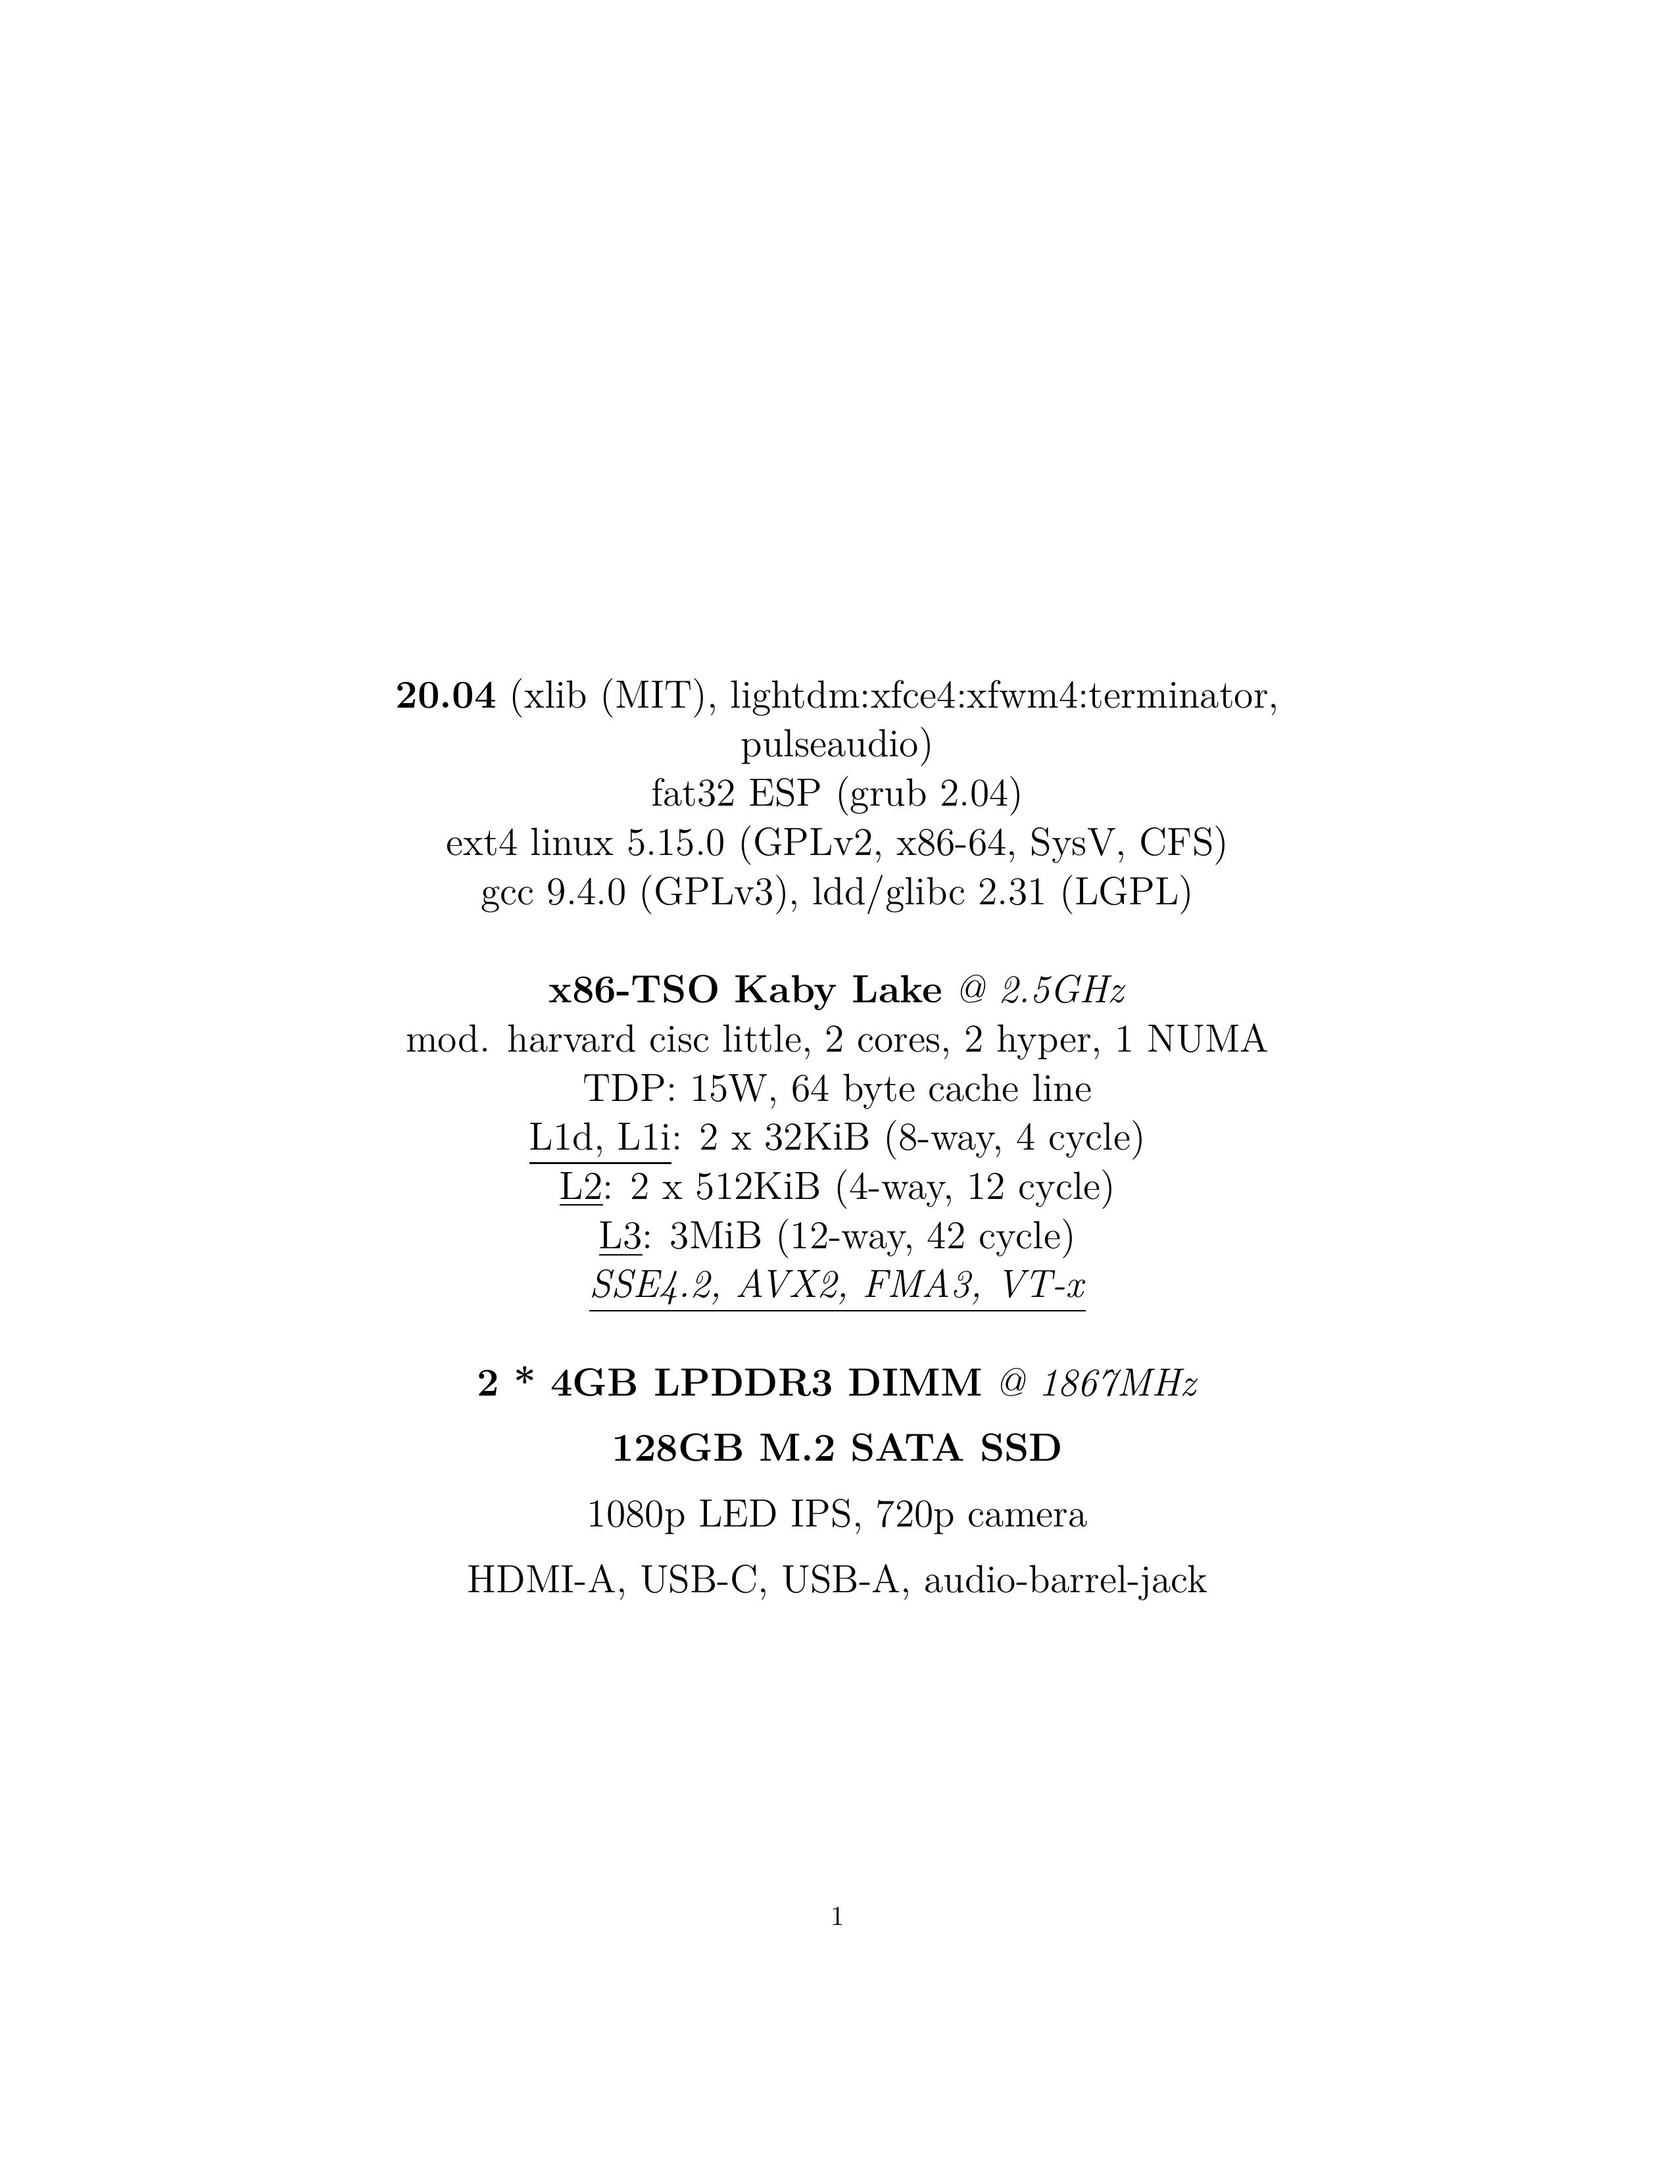
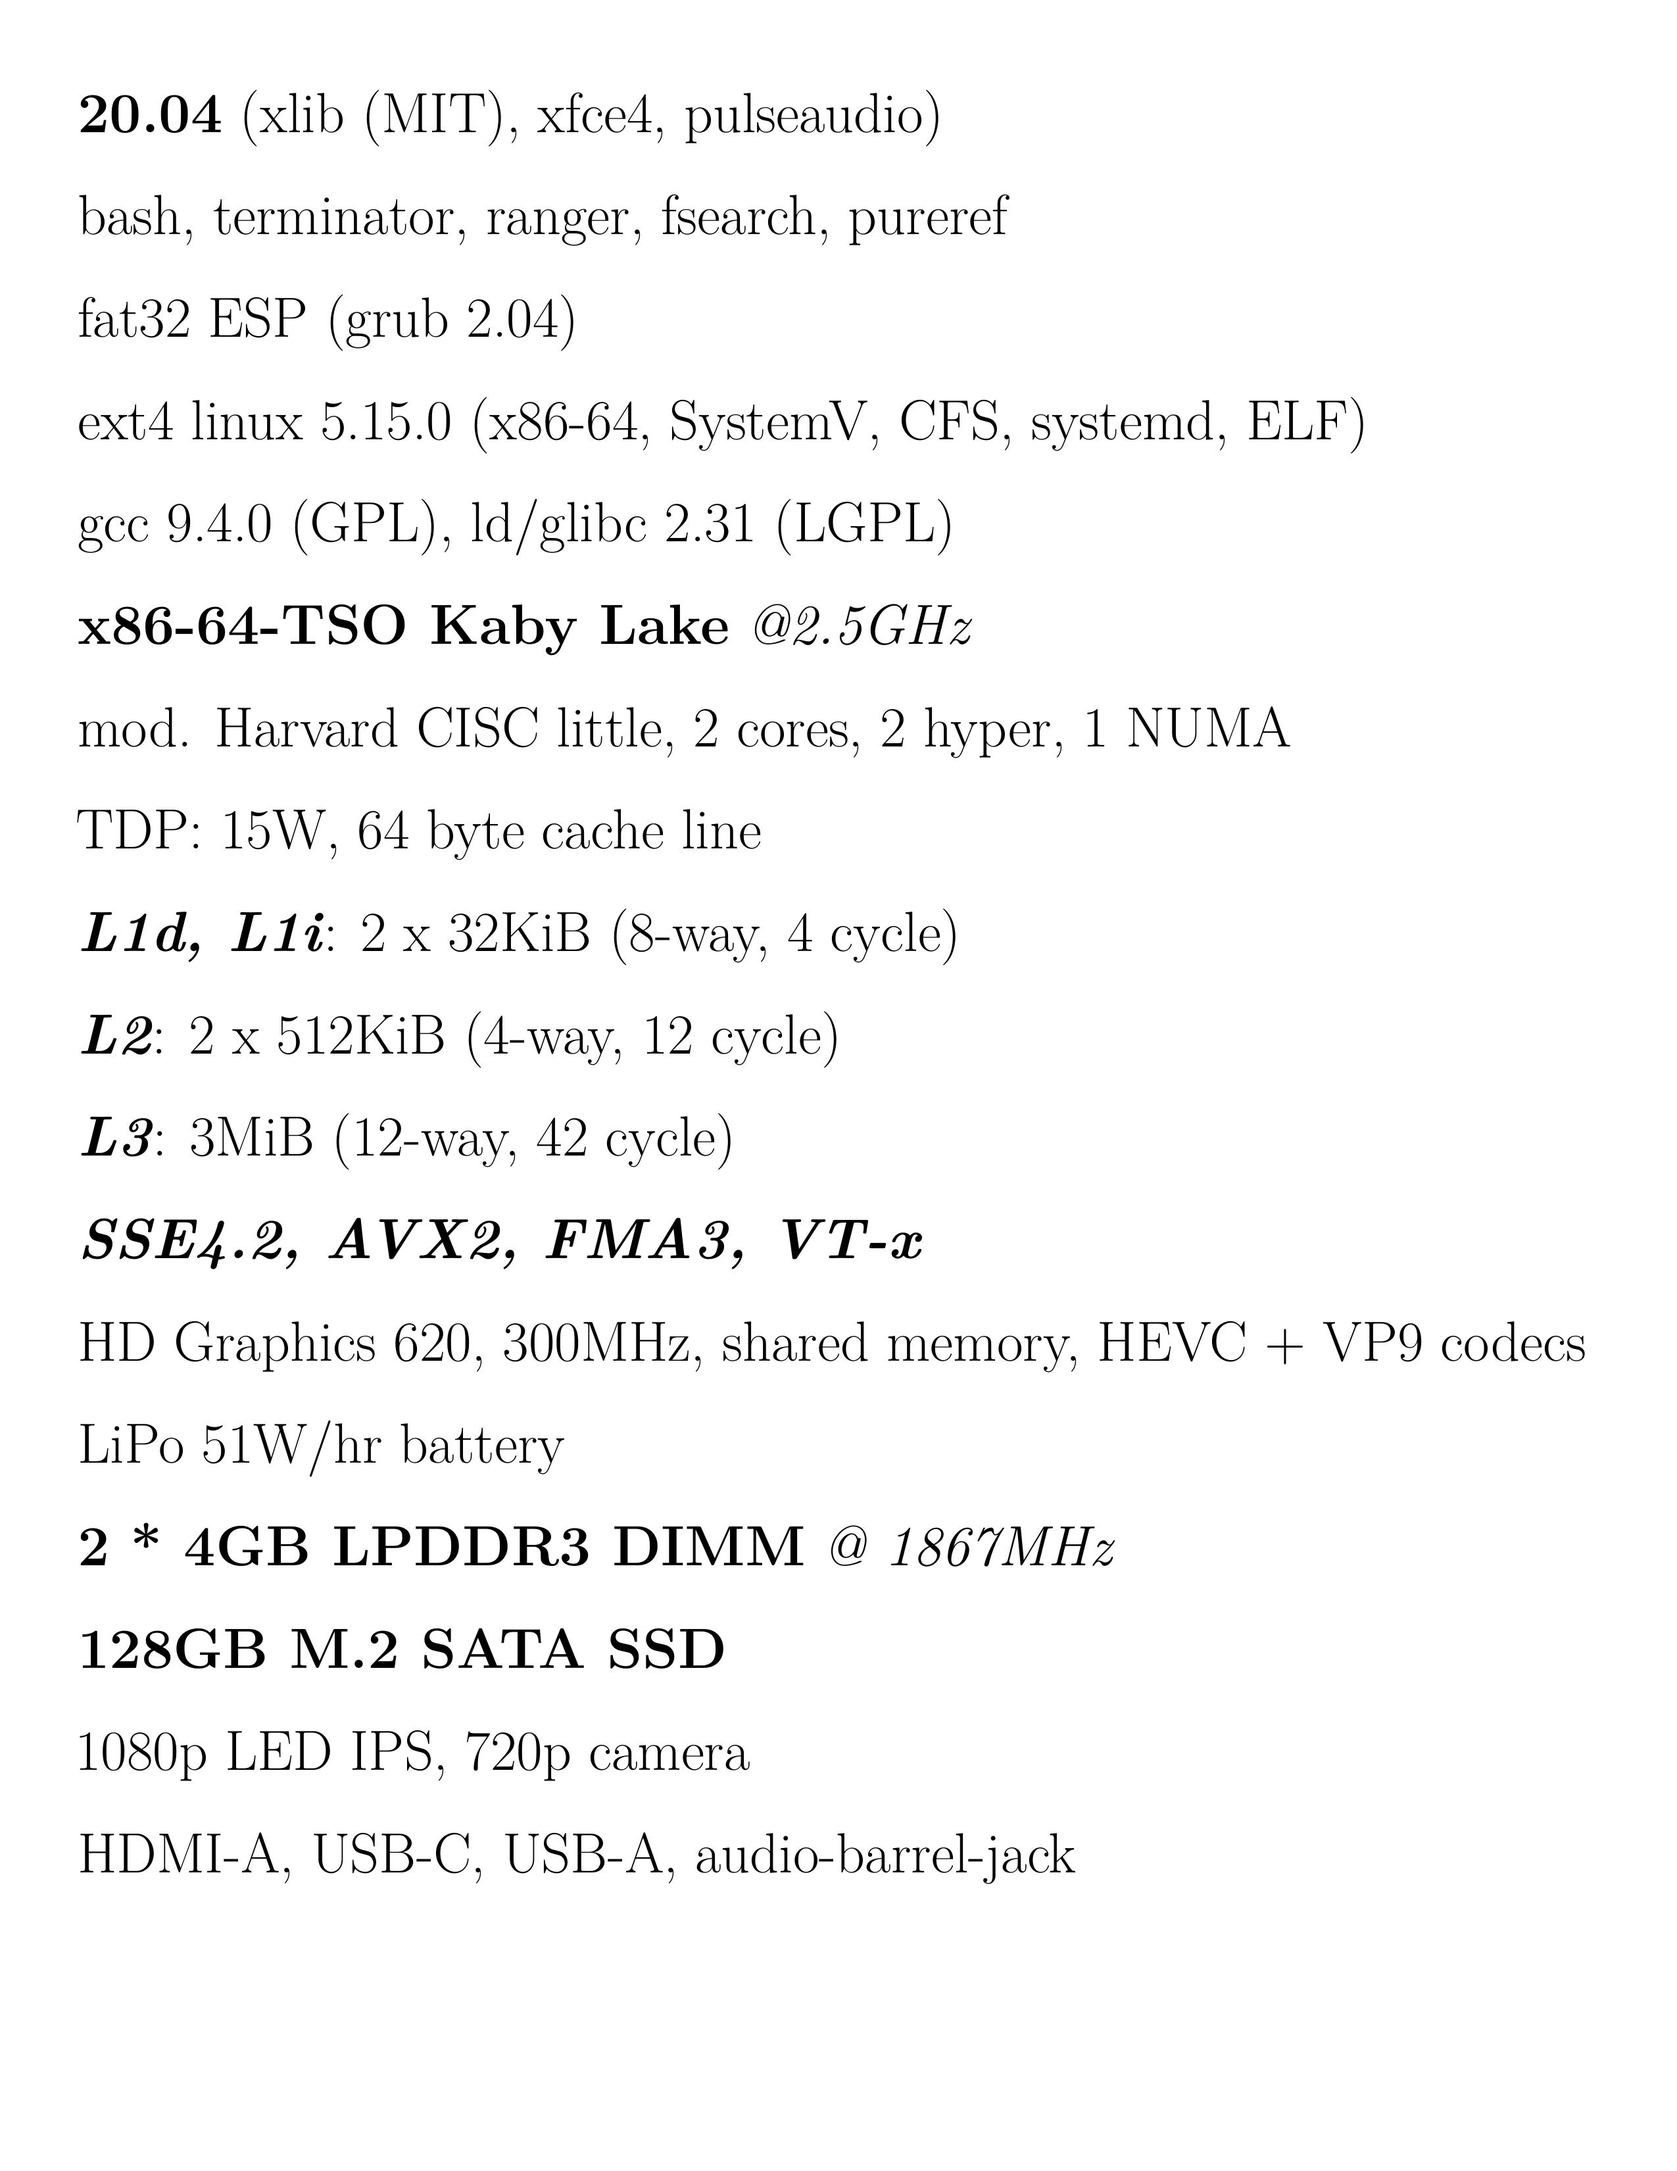
hi

diff --git a/src/desktop.md b/src/desktop.md
@@ -1,3 +1,12 @@
+<!---
+---
+documentclass: extarticle
+fontsize: 20pt
+pagestyle: empty
+geometry: "left=1cm,right=1cm,top=1cm,bottom=1cm"
+---
+ Possible sizes are 8pt, 9pt, 10pt, 11pt, 12pt, 14pt, 17pt, 20pt -->
+
 **20.04** (xlib (MIT), xfce4, pulseaudio)
 
 bash, terminator, ranger, fsearch, pureref
@@ -22,8 +31,9 @@ TDP: 15W, 64 byte cache line
 
 ***SSE4.2, AVX2, FMA3, VT-x***
 
-HD Graphics 620, 300MHz
+HD Graphics 620, 300MHz, shared memory, HEVC + VP9 codecs
 
+LiPo 51W/hr battery
 
 **2 * 4GB LPDDR3 DIMM** *@ 1867MHz*
 
@@ -32,5 +42,3 @@ HD Graphics 620, 300MHz
 1080p LED IPS, 720p camera
 
 HDMI-A, USB-C, USB-A, audio-barrel-jack
-
-(battery information)
